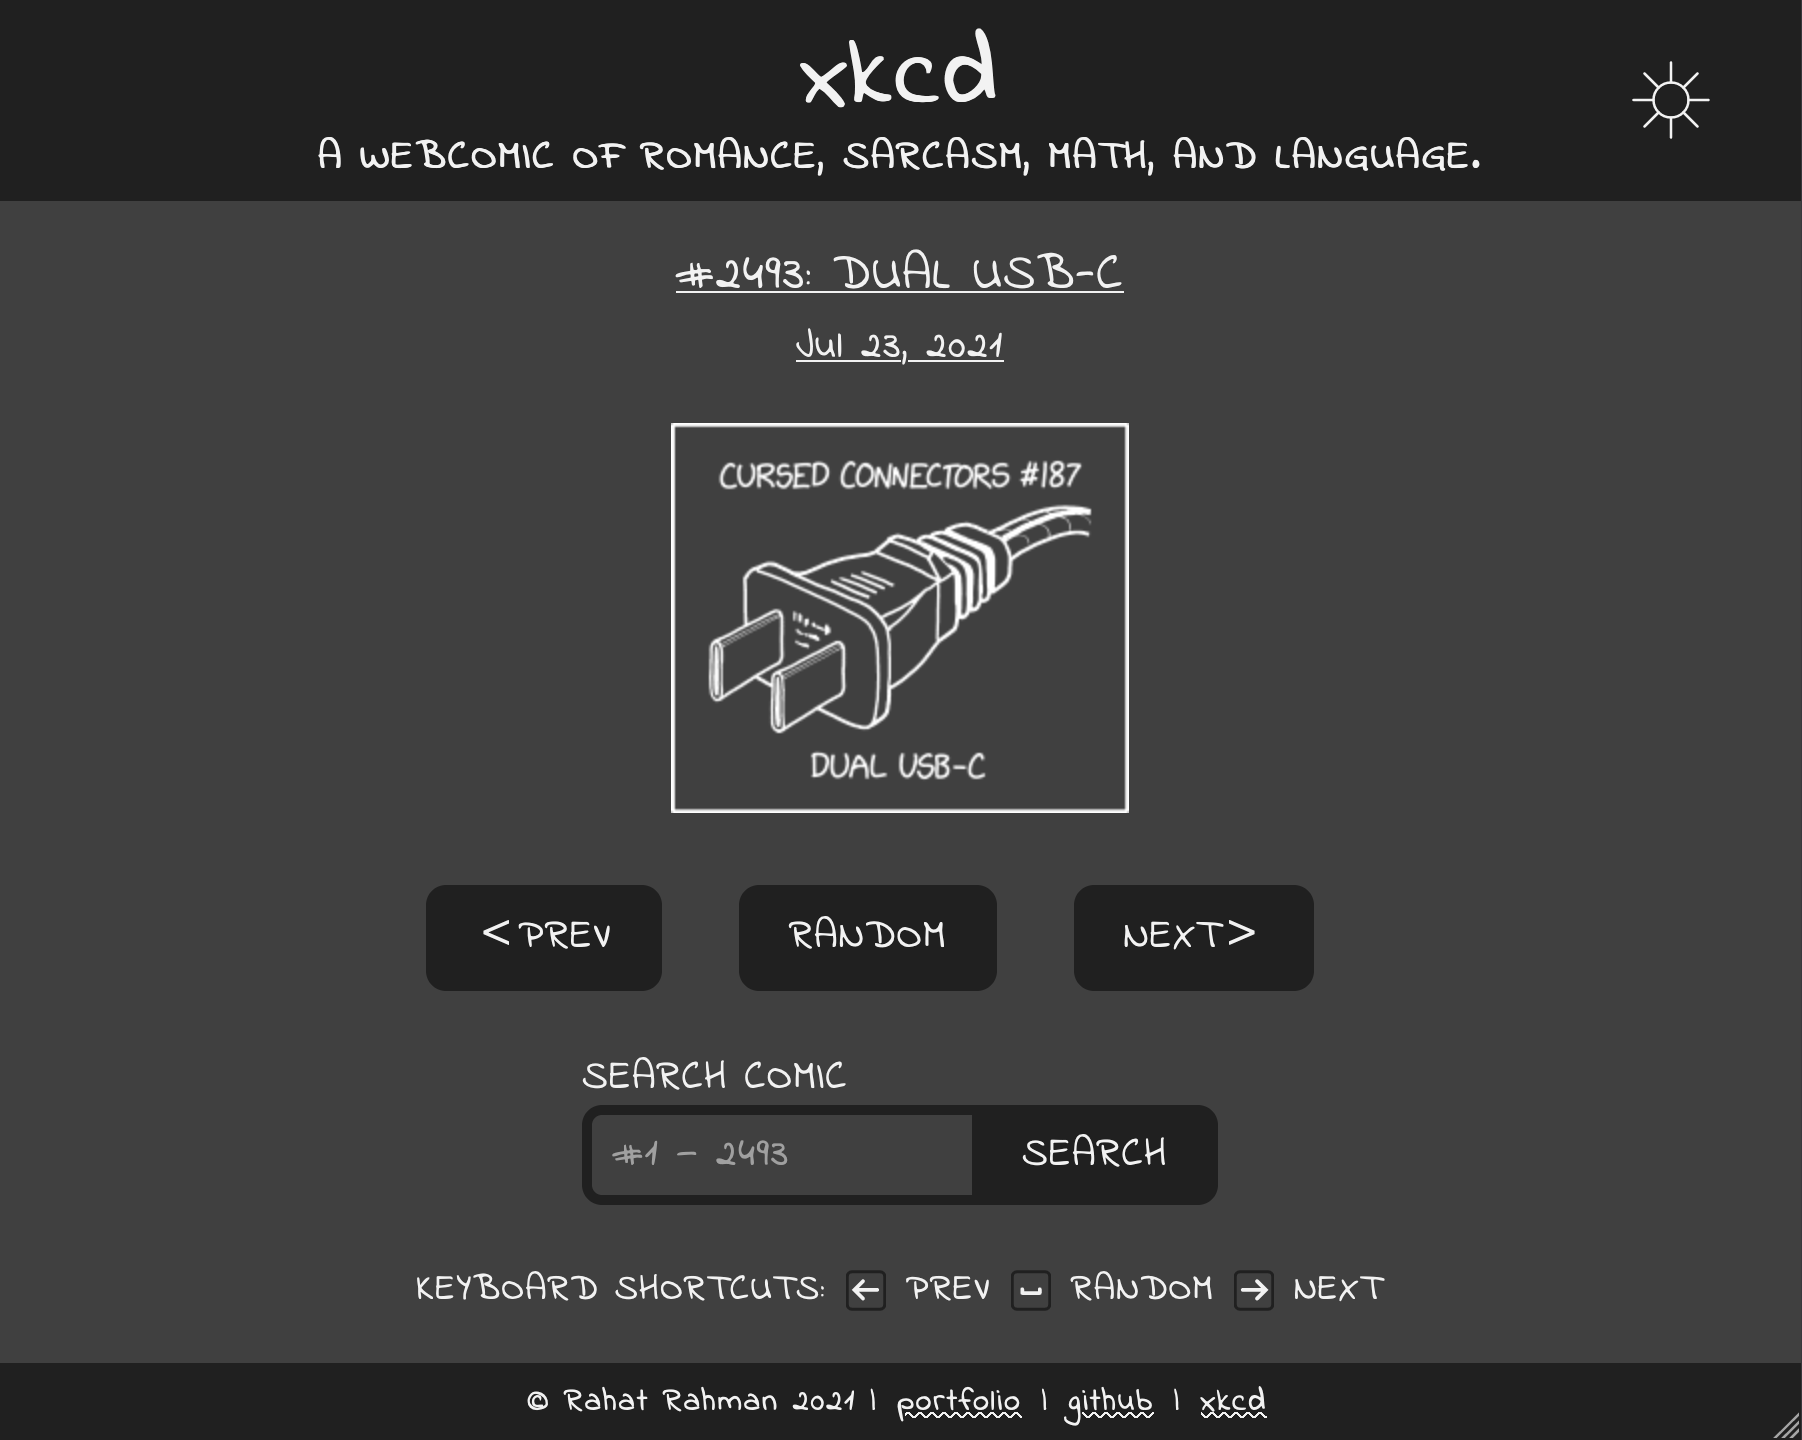
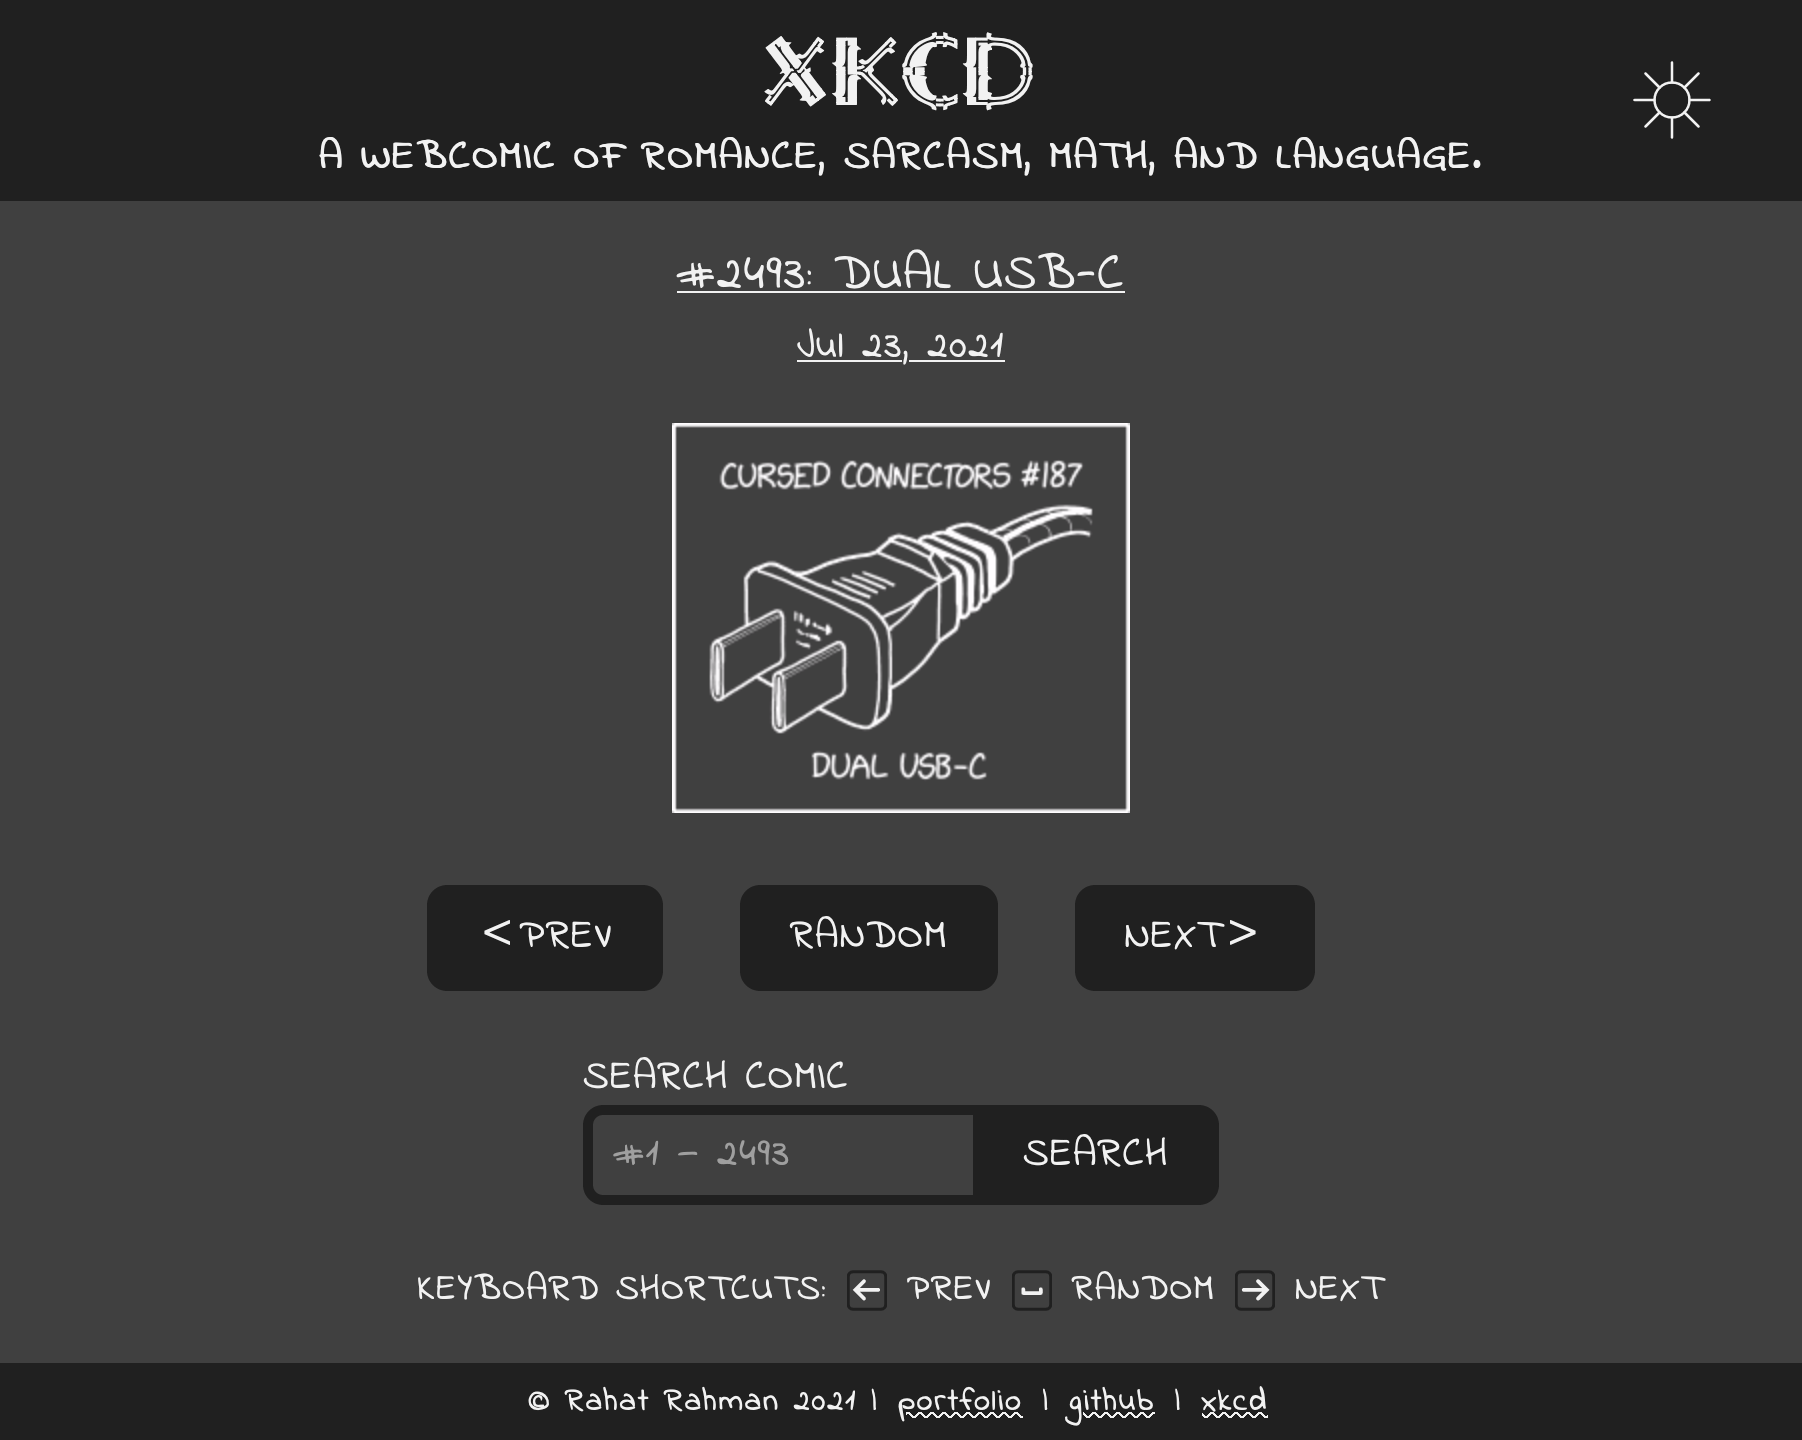
add variable font :heart_eyes:

diff --git a/style.css b/style.css
@@ -13,6 +13,12 @@ html{box-sizing:border-box}*,*::before,*::after{box-sizing:inherit}
 
 /* ⌗⌗⌗⌗⌗⌗⌗⌗⌗⌗⌗⌗⌗⌗⌗⌗⌗⌗⌗⌗⌗⌗⌗⌗⌗⌗⌗⌗⌗⌗⌗⌗⌗⌗⌗⌗⌗⌗⌗⌗⌗⌗⌗⌗⌗⌗⌗⌗⌗⌗⌗⌗⌗⌗⌗⌗⌗⌗⌗⌗⌗⌗⌗⌗⌗⌗ */
 
+/* Variable font example from Grow Decovar Demo at https://variablefonts.dev/posts/grow-decovar-demo/ */
+@font-face {
+    font-family: "Decovar Regular24";
+    src: url(https://s3-us-west-2.amazonaws.com/s.cdpn.io/209981/Decovar-VF.ttf);
+}
+
 :root {
   --background-colour-body: #f2f2f2;
   --background-colour: #dddddd;
@@ -49,7 +55,10 @@ header, footer {
 }
 
 h1 {
-    font-size: 50px;
+    font-size: 5rem;
+    font-family: "Decovar Regular24";
+    font-variation-settings: "INLN" 400, "SWRM" 1000;
+    animation: grow 3s linear infinite alternate;
 }
 
 h1 + p {
@@ -257,6 +266,15 @@ footer a:focus {
     }
     100% {
         transform: rotate(360deg)
+    }
+}
+
+@keyframes grow {
+    0% {
+        font-variation-settings: "INLN" 400, "SWRM" 1000;
+    }
+    100% {
+        font-variation-settings: "INLN" 400, "SWRM" 0;
     }
 }
 

diff --git a/README.md b/README.md
@@ -1,10 +1,10 @@
-# **[xkcd](https://rahatrahman.com/xkcd/)**
+# xkcd
 
-An xkcd comic viewer app made using HTML, CSS and JavaScript. Navigate to the next or previous issue or read xkcd comics randomly. Search any comics from the archives (excluding 404)! The app is:
+An xkcd comic viewer site made using HTML, CSS and JavaScript. Navigate to the next or previous issue or view xkcd comics randomly. Search any comics from the archives (excluding 404)! The site is:
 
 * Fully responsive.
 * Keyboard accessible.
-* Supports light/dark theme.
+* Supports light & dark theme.
 
 ## Light Theme
 ![light theme screenshot](assets/images/screenshot-light.png)
@@ -13,4 +13,4 @@ An xkcd comic viewer app made using HTML, CSS and JavaScript. Navigate to the ne
 ![dark theme screenshot](assets/images/screenshot-dark.png)
 
 --------------------------------------------------------------------
-Comics provided by the xkcd comic [API](https://xkcd.com/json.html).
+© Rahat Rahman 2021 | [portfolio](https://rahatrahman.com/) | [github](https://github.com/rahatbd/xkcd) | [xkcd](https://xkcd.com/json.html)
